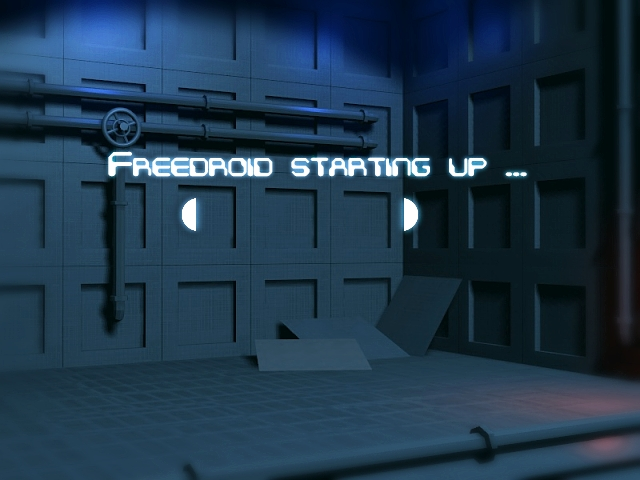
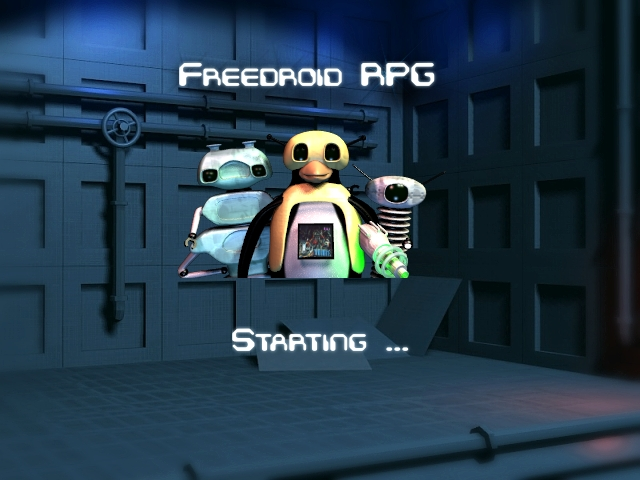
Committing feature request #2939746: new startup screen.
git-svn-id: https://freedroid.svn.sourceforge.net/svnroot/freedroid@2385 524c2bfb-fa3f-0410-b5a2-92f4e1dc5b61

Changed region(s): [[0.1562, 0.125, 0.8438, 0.5938], [0.3438, 0.6562, 0.6562, 0.75]]

diff --git a/src/init.c b/src/init.c
@@ -247,20 +247,20 @@ void ShowStartupPercentage(int Percentage)
 		blit_special_background(FREEDROID_LOADING_PICTURE_CODE);
 
 	Bar_Rect.x = 200 * GameConfig.screen_width / 640;
-	Bar_Rect.y = 200 * GameConfig.screen_height / 480;
+	Bar_Rect.y = 275 * GameConfig.screen_height / 480;
 	Bar_Rect.w = 2 * Percentage * GameConfig.screen_width / 640;
 	Bar_Rect.h = 30 * GameConfig.screen_height / 480;
 	our_SDL_fill_rect_wrapper(Screen, &Bar_Rect, FillColor);
 
 	Bar_Rect.x = (200 + 2 * Percentage) * GameConfig.screen_width / 640;
-	Bar_Rect.y = 200 * GameConfig.screen_height / 480;
+	Bar_Rect.y = 275 * GameConfig.screen_height / 480;
 	Bar_Rect.w = (200 - 2 * Percentage) * GameConfig.screen_width / 640;
 	Bar_Rect.h = 30 * GameConfig.screen_height / 480;
 	our_SDL_fill_rect_wrapper(Screen, &Bar_Rect, 0);
 
 	SDL_SetClipRect(Screen, NULL);
 
-	PrintString(Screen, 300 * GameConfig.screen_width / 640 - 9, 213 * GameConfig.screen_height / 480 - 7, "%d%%", Percentage);
+	PrintString(Screen, 300 * GameConfig.screen_width / 640 - 9, 288 * GameConfig.screen_height / 480 - 7, "%d%%", Percentage);
 
 	our_SDL_update_rect_wrapper(Screen, 0, 0, Screen->w, Screen->h);
 
